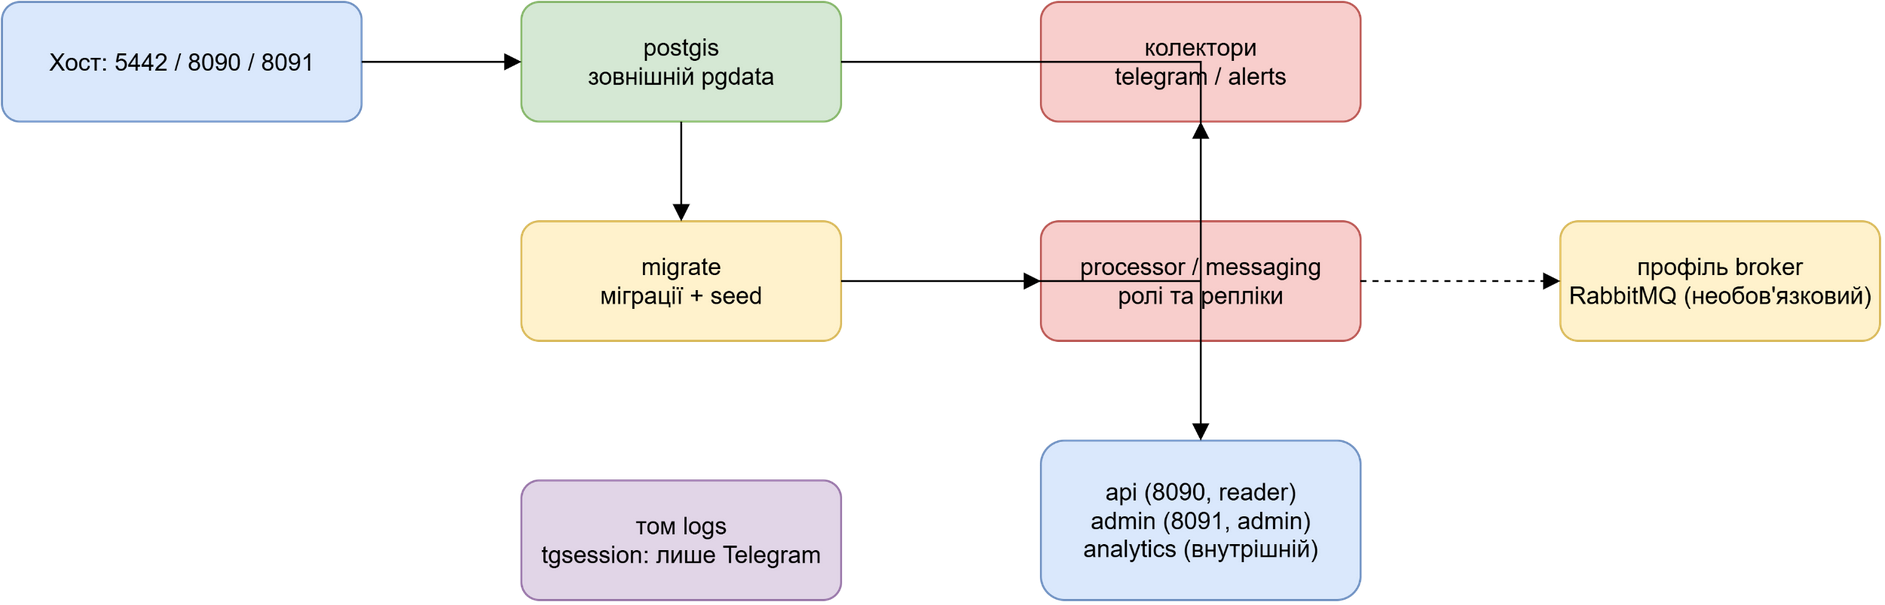
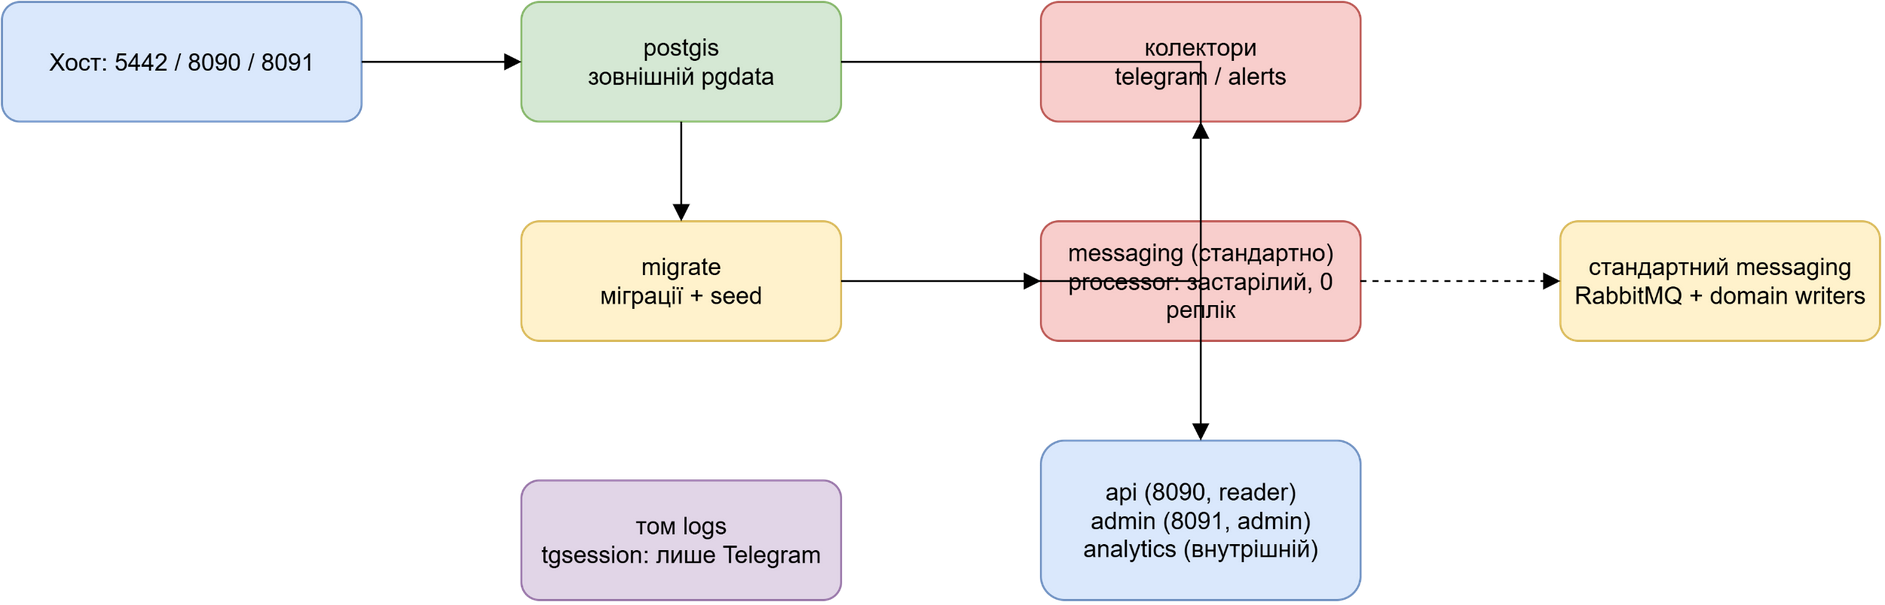
feat(deploy): make messaging the default pipeline

Changed region(s): [[0.5538, 0.3868, 0.7077, 0.5355], [0.8308, 0.4165, 1.0, 0.5058]]

diff --git a/src/Puluj.Worker/Hosting/WorkerOptions.cs b/src/Puluj.Worker/Hosting/WorkerOptions.cs
@@ -2,7 +2,8 @@ namespace Puluj.Worker.Hosting;
 
 /// <summary>
 /// Which parts of the Worker this process runs. One image, several containers: each takes a subset of the roles
-/// (see deploy/docker-compose.yml). No roles configured = everything in one process (local development).
+/// (see deploy/docker-compose.yml). The default appsettings list durable messaging roles and deliberately exclude
+/// obsolete <c>processing</c>; an empty role list follows the same messaging-first default.
 /// </summary>
 public sealed class WorkerOptions
 {
@@ -38,7 +39,9 @@ public sealed class WorkerOptions
     public const string MessageAnalytics = "message-analytics";
 
     public static readonly string[] AllRoles = [Migrate, Telegram, Alerts, Processing, Relay, Archive, RawWriter, Normalizer, Parser, LlmWorker, Finalizer, TrackWorker, AlertWorker, Watchdog, IncidentWorker, Projection, Replay, MessageAnalytics];
-    /// <summary>Roles that talk to the broker: skipped with a warning unless Messaging:Enabled (a plain local run has no RabbitMQ).</summary>
+    /// <summary>Messaging-first default roles. The obsolete monolithic processing role is opt-in.</summary>
+    public static readonly string[] DefaultRoles = [Migrate, Telegram, Alerts, Relay, Archive, RawWriter, Normalizer, Parser, LlmWorker, Finalizer, TrackWorker, AlertWorker, Watchdog, IncidentWorker, Projection, Replay, MessageAnalytics];
+    /// <summary>Roles that talk to the broker: skipped with a warning only when Messaging:Enabled was explicitly disabled.</summary>
     public static readonly string[] BrokerRoles = [Relay, Archive, RawWriter, Normalizer, Parser, LlmWorker, Finalizer, TrackWorker, AlertWorker, Watchdog, IncidentWorker, Projection, Replay, MessageAnalytics];
 
     /// <summary>Instance name for the heartbeat, logs, telemetry and claims (`worker`, `processor`, `collector-telegram`…); see <see cref="InstanceName"/>.</summary>
@@ -53,7 +56,7 @@ public sealed class WorkerOptions
     /// <summary>Name of this running instance: <see cref="Name"/>, plus the host name when <see cref="AppendHostName"/>.</summary>
     public string InstanceName => AppendHostName ? $"{Name}-{Environment.MachineName.ToLowerInvariant()}" : Name;
 
-    /// <summary>Comma-separated roles; empty means all of them.</summary>
+    /// <summary>Comma-separated roles; empty means the messaging-first <see cref="DefaultRoles"/> set.</summary>
     public string? Roles { get; set; }
 
     public IReadOnlySet<string> RoleSet
@@ -67,7 +70,7 @@ public sealed class WorkerOptions
             {
                 throw new InvalidOperationException($"Unknown Worker:Roles value(s): {string.Join(", ", unknown)}. Known: {string.Join(", ", AllRoles)}.");
             }
-            return roles.Count == 0 ? AllRoles.ToHashSet() : roles;
+            return roles.Count == 0 ? DefaultRoles.ToHashSet() : roles;
         }
     }
 

diff --git a/src/Puluj.Infrastructure/Messaging/MessagingOptions.cs b/src/Puluj.Infrastructure/Messaging/MessagingOptions.cs
@@ -1,15 +1,16 @@
 namespace Puluj.Infrastructure.Messaging;
 
 /// <summary>
-/// `Messaging` configuration section (P03). Everything is off by default: the legacy NOTIFY/claim pipeline keeps
-/// working unchanged, the broker is only used by processes that enable it (compose profile `broker`).
+/// `Messaging` configuration section. The deployed and base Worker configuration use the durable messaging path by
+/// default. A host that constructs options without configuration gets the same safe defaults; legacy processing is
+/// an explicit role choice rather than a fallback.
 /// </summary>
 public sealed class MessagingOptions
 {
     public const string Section = "Messaging";
 
     /// <summary>Master switch for the broker roles (`relay`, `archive`): without it they are skipped with a warning.</summary>
-    public bool Enabled { get; set; }
+    public bool Enabled { get; set; } = true;
 
     public OutboxOptions Outbox { get; set; } = new();
     public IngressOptions Ingress { get; set; } = new();
@@ -25,7 +26,7 @@ public sealed class MessagingOptions
         /// DB-first bridge (plan §11): <c>RawMessageIngestor</c> commits `raw.stored` into `messaging.outbox` together with the
         /// raw row. Needs a `relay` role somewhere, otherwise the outbox only grows (reconciliation alarms on its age).
         /// </summary>
-        public bool Enabled { get; set; }
+        public bool Enabled { get; set; } = true;
 
         /// <summary>`pipeline_version` written into every envelope; defaults to the informational assembly version.</summary>
         public string? PipelineVersion { get; set; }
@@ -38,7 +39,7 @@ public sealed class MessagingOptions
         /// and the `raw-writer` subscription stores the raw row. Needs `relay` and `raw-writer` roles running somewhere;
         /// without them nothing reaches raw_messages (reconciliation alarms on outbox age / overdue deliveries).
         /// </summary>
-        public bool Enabled { get; set; }
+        public bool Enabled { get; set; } = true;
 
         /// <summary>How long a history load waits for the raw-writer to store everything it published before the rebuild.</summary>
         public TimeSpan DrainTimeout { get; set; } = TimeSpan.FromMinutes(10);

diff --git a/src/Puluj.Admin/Docker/DockerOptions.cs b/src/Puluj.Admin/Docker/DockerOptions.cs
@@ -25,7 +25,7 @@ public sealed class DockerOptions
     /// <summary>The compose service that is scaled from the panel.</summary>
     public string ScalableService { get; set; } = "processor";
 
-    /// <summary>Services the P13 messaging panel may scale (`--scale &lt;service&gt;=N`); `messaging` is under the `broker` profile — compose enables it for an explicitly named service.</summary>
+    /// <summary>Services the P13 messaging panel may scale (`--scale &lt;service&gt;=N`); messaging is the standard Compose pipeline.</summary>
     public List<string> ScalableServices { get; set; } = ["processor", "messaging"];
 
     public int MaxReplicas { get; set; } = 8;

diff --git a/src/Puluj.Worker/Program.cs b/src/Puluj.Worker/Program.cs
@@ -44,7 +44,7 @@ if (roles.Contains(WorkerOptions.Processing))
 {
     builder.Services.AddPulujProcessing(builder.Configuration, worker.InstanceName);
 }
-// Broker roles (P03): only with Messaging:Enabled — a plain local run has no RabbitMQ and must keep working.
+// Broker roles are the default durable path. They are skipped only when an operator explicitly disables Messaging.
 var messaging = builder.Configuration.GetSection(MessagingOptions.Section).Get<MessagingOptions>() ?? new MessagingOptions();
 var brokerRoles = roles.Intersect(WorkerOptions.BrokerRoles).ToHashSet();
 if (brokerRoles.Count > 0 && messaging.Enabled)

diff --git a/contracts/messaging/tools/gen-asyncapi.py b/contracts/messaging/tools/gen-asyncapi.py
@@ -19,7 +19,7 @@ A("servers:")
 A("  local:")
 A("    host: localhost:5672")
 A("    protocol: amqp")
-A("    description: Один RabbitMQ контейнер для розробки (ADR-0001, dev profile закріплено P02: rabbitmq:4.3-management, Compose profile broker; HA — P16).")
+A("    description: Один RabbitMQ контейнер для стандартного messaging pipeline (ADR-0001: rabbitmq:4.3-management; HA — P16).")
 A("channels:")
 for et, ev in top["events"].items():
     cid = et.replace(".", "_")

diff --git a/README.md b/README.md
@@ -9,7 +9,7 @@ pwsh scripts/deploy.ps1
 ```
 
 Він дозволяє вибрати сервіси для публікації, перебудову образів, збереження,
-створення або повне очищення ізольованої БД, broker-режим і потрібні токени,
+створення або повне очищення ізольованої БД, стандартний messaging pipeline і потрібні токени,
 Telegram API ID/API hash/номер/2FA та LLM-конфігурацію. Секрети не виводяться.
 Для наявної БД майстер окремо пропонує записати runtime-параметри в
 `app_settings`, бо вони мають пріоритет над `.env`.
@@ -37,7 +37,7 @@ pwsh scripts/deploy.ps1 -NonInteractive
 Скрипт відмовиться непомітно ініціалізувати порожню БД. Якщо наявний том має
 іншу назву, передайте її явно через `-DatabaseVolume <name>`. Перед оновленням
 із ризиком для даних підготуйте перевірену резервну копію. Деталі про ролі,
-конфігурацію, broker-профіль і діагностику — у
+конфігурацію, messaging pipeline і діагностику — у
 [посібнику з розгортання та експлуатації](docs/deployment-operations.md).
 
 ## Що таке Puluj-G
@@ -56,10 +56,11 @@ Puluj-G збирає повідомлення з первинних джерел
 
 ## Як це працює
 
-Первинні джерела надходять через колектори до PostgreSQL як незмінні raw
-повідомлення. Далі legacy processor або, у broker-режимі, durable event stages
-нормалізують і розбирають дані; доменні writers створюють tracks, alerts та
-incidents з provenance. API віддає read-side і realtime-сповіщення публічній
+Первинні джерела надходять через колектори до durable messaging pipeline:
+PostgreSQL outbox, RabbitMQ та окремі stages нормалізації, розбору і domain
+writers створюють tracks, alerts та incidents з provenance. Застарілий
+monolithic `processor` вимкнений за замовчуванням і доступний лише як явний
+контрольований rollback. API віддає read-side і realtime-сповіщення публічній
 карті, а admin і analytics працюють з операційними та похідними даними.
 
 ![Огляд системи Puluj-G](docs/diagrams/system-overview.png)

diff --git a/docs/message-processing-platform.md b/docs/message-processing-platform.md
@@ -31,9 +31,11 @@ Sequence-діаграма нижче фіксує часовий порядок 
 `raw-writer` споживає цей event та фіксує raw row і наступні outbox rows; stages
 `normalizer`, `parser`, `llm-worker`, `finalizer` послідовно створюють наступний
 event. Domain writers (track, alert, watchdog, incident) є окремими durable
-підписниками. Для legacy/local режиму існує `processing` role: він claim-ить
-`raw_messages` у БД і виконує монолітний processor. Її не можна запускати разом
-з P09 domain-writer roles, щоб два власники не записували ті самі доменні рядки.
+підписниками. Застаріла `processing` role claim-ить `raw_messages` у БД і
+виконує монолітний processor. Вона вимкнена за замовчуванням: Compose запускає
+durable messaging stages і domain writers. `processing` дозволена лише як
+явний контрольований rollback і її не можна запускати разом з domain-writer
+roles, щоб два власники не записували ті самі доменні рядки.
 
 `RawMessageClaims` робить claim одним `UPDATE … FOR UPDATE SKIP LOCKED`: статус
 переходить `Pending → InProgress`. Lease sweep повертає прострочений claim у
@@ -121,5 +123,5 @@ durable work: loop опитує `Pending` rows, а API надсилає `Resync`
 
 Контракт стійкий до відомих redelivery crash windows завдяки event ID та inbox,
 але не обіцяє exactly-once, порядок між queues або delivery у SignalR. Старий
-monolithic processor залишається для режиму без broker; він не є описом durable
-RabbitMQ pipeline.
+monolithic processor лишається лише для явного rollback; він не є fallback за
+замовчуванням і не є описом durable RabbitMQ pipeline.
